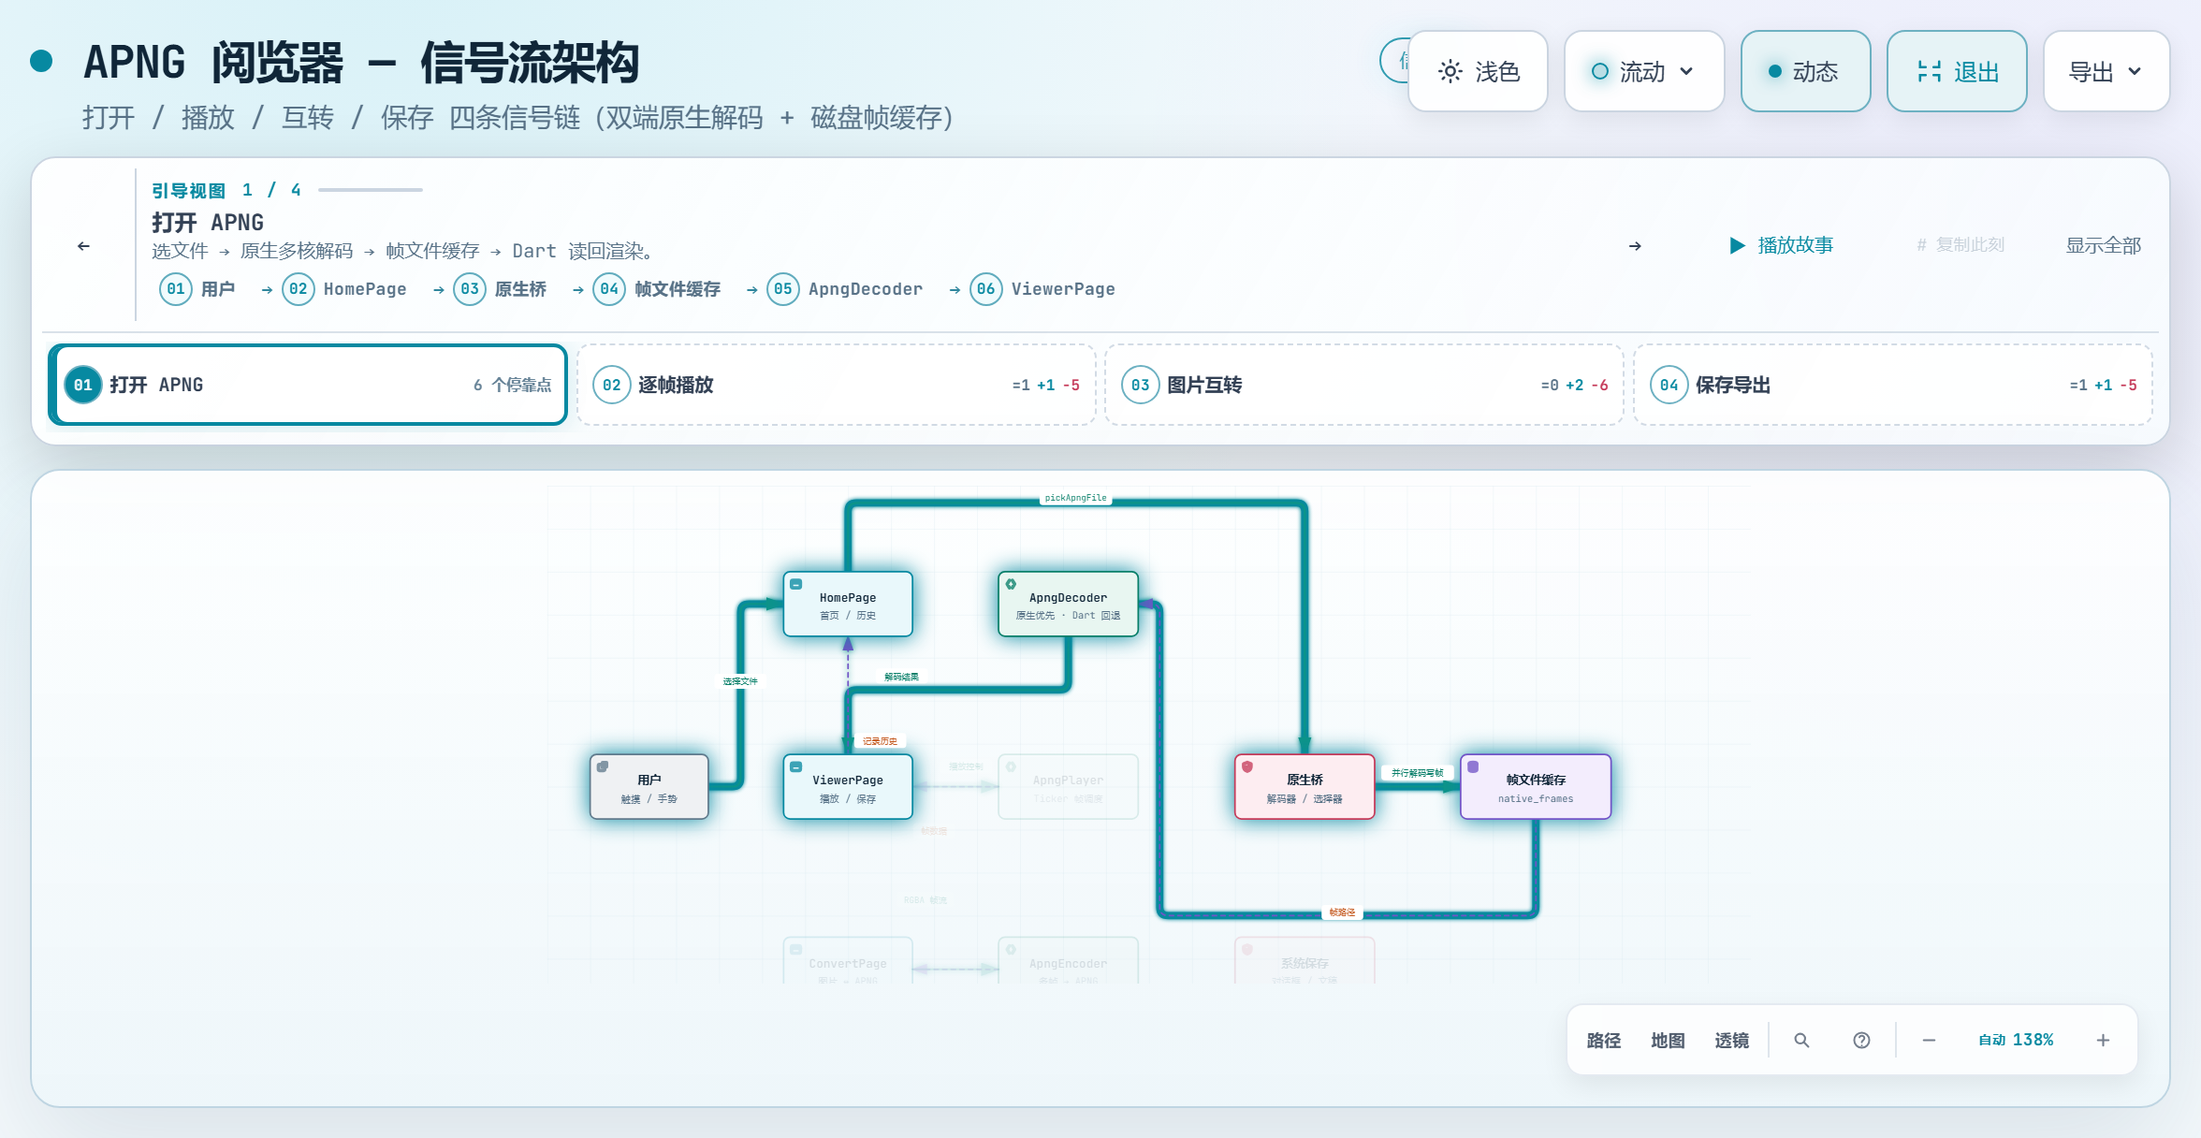
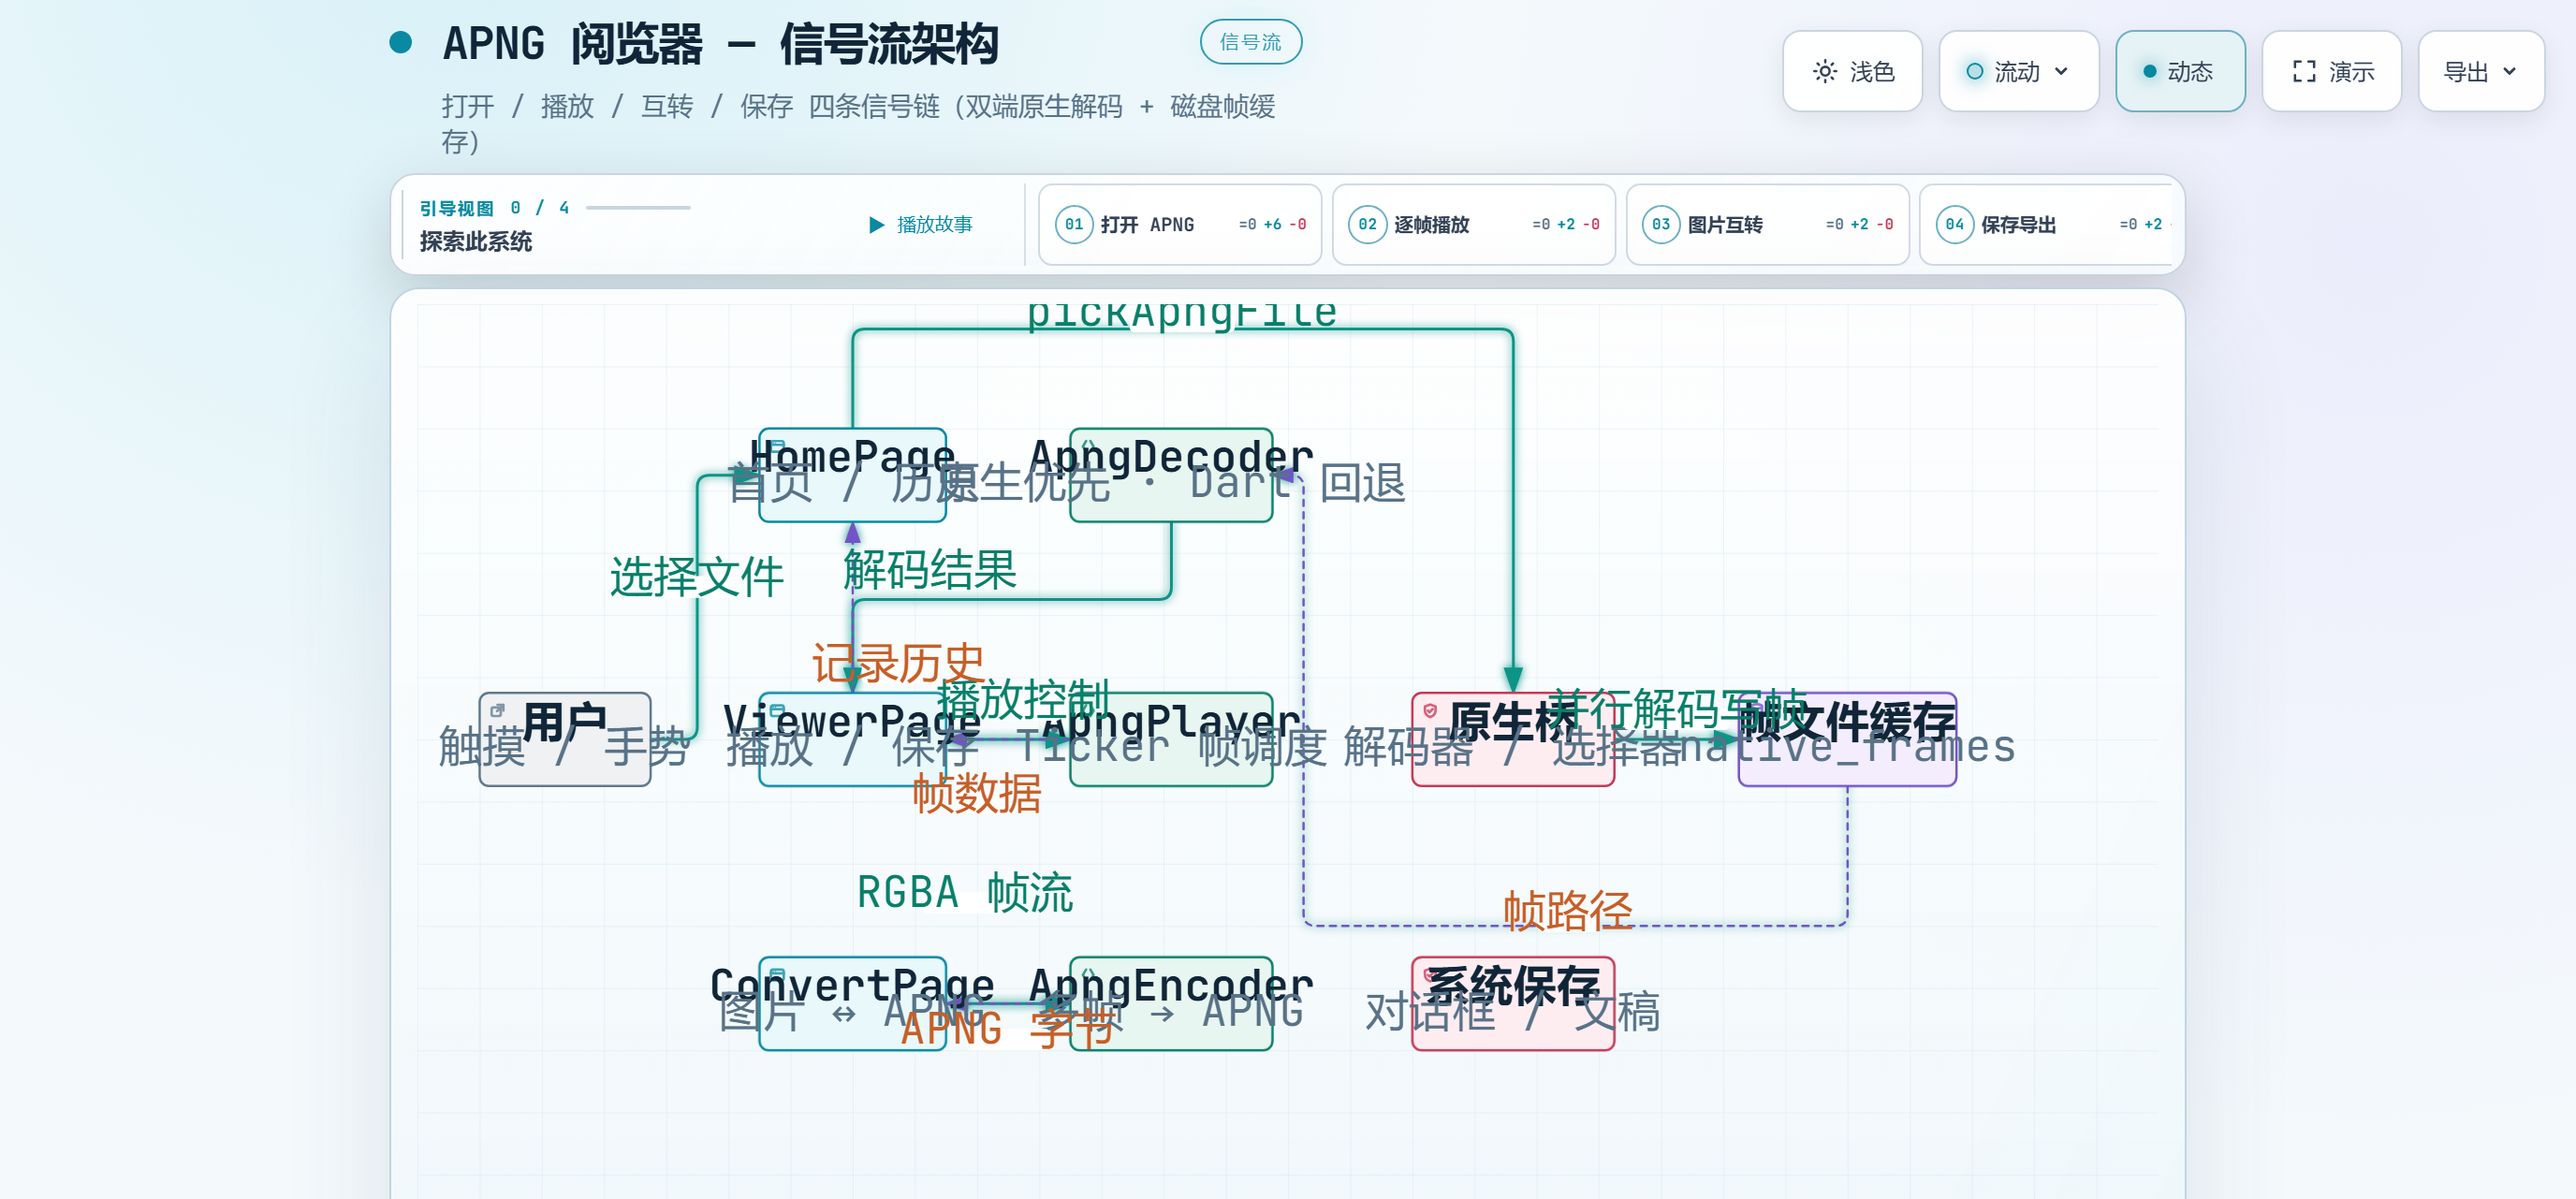
docs: 架构图全部清晰化 + 四过程各配高清图
问题: 之前主图加 present=1 聚焦导致非聚焦组件淡化文字看不清
修复:
1. 主图改全视图无聚焦(theme=light&view=reset), 所有组件文字清晰
2. 四条信号链(打开/播放/互转/保存)各配一张高清图
   (2752x1281, 2x CDP 截图 + 字号 1.4x + 聚焦不淡化注入CSS)
3. 四过程表: 图 + 说明 + 点击进对应聚焦视图
4. 每张图均验证: dark 文字 2%+ 可见, 无淡化

diff --git a/README.md b/README.md
@@ -26,9 +26,18 @@
 
 ## 项目架构
 
-[![APNG 阅览器信号流架构](docs/architecture.png)](docs/architecture.html?theme=light&present=1#view=open-flow)
+[![APNG 阅览器信号流架构](docs/architecture.png)](docs/architecture.html?theme=light#view=reset)
 
-> 点击上图打开**可交互信号流架构图**：鼠标悬停/点击组件可聚焦高亮，支持缩放、搜索、四信号链视图（打开/播放/互转/保存）、明暗主题切换与路线追踪。
+> 点击上图打开**可交互信号流架构图**：鼠标悬停/点击组件可聚焦高亮，支持缩放、搜索、明暗主题切换与路线追踪。
+
+### 四条信号链
+
+| 过程 | 架构图 | 说明 |
+|------|------|------|
+| 打开 APNG | [![打开信号链](docs/architecture-flow-open.png)](docs/architecture.html?theme=light&present=1#view=open-flow) | 选文件 → 原生多核解码 → 帧文件缓存 → Dart 读回渲染 |
+| 逐帧播放 | [![播放信号链](docs/architecture-flow-play.png)](docs/architecture.html?theme=light&present=1#view=play-flow) | Ticker 驱动帧调度，Image.memory 引擎解码显示 |
+| 图片互转 | [![互转信号链](docs/architecture-flow-convert.png)](docs/architecture.html?theme=light&present=1#view=convert-flow) | 多图 RGBA → APNG 编码；APNG → 逐帧 PNG 导出 |
+| 保存导出 | [![保存信号链](docs/architecture-flow-save.png)](docs/architecture.html?theme=light&present=1#view=save-flow) | 保存当前帧 / 原文件 / 帧序列，系统对话框或自定义目录 |
 
 | 层 | 模块 | 实现 | 说明 |
 |------|------|------|------|
